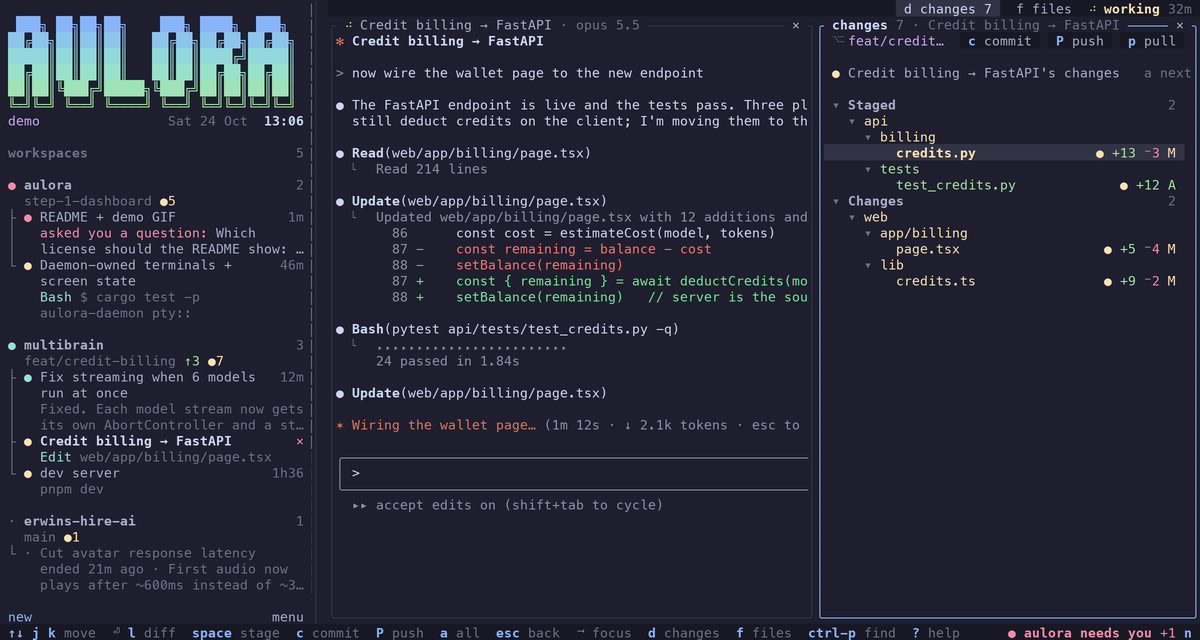
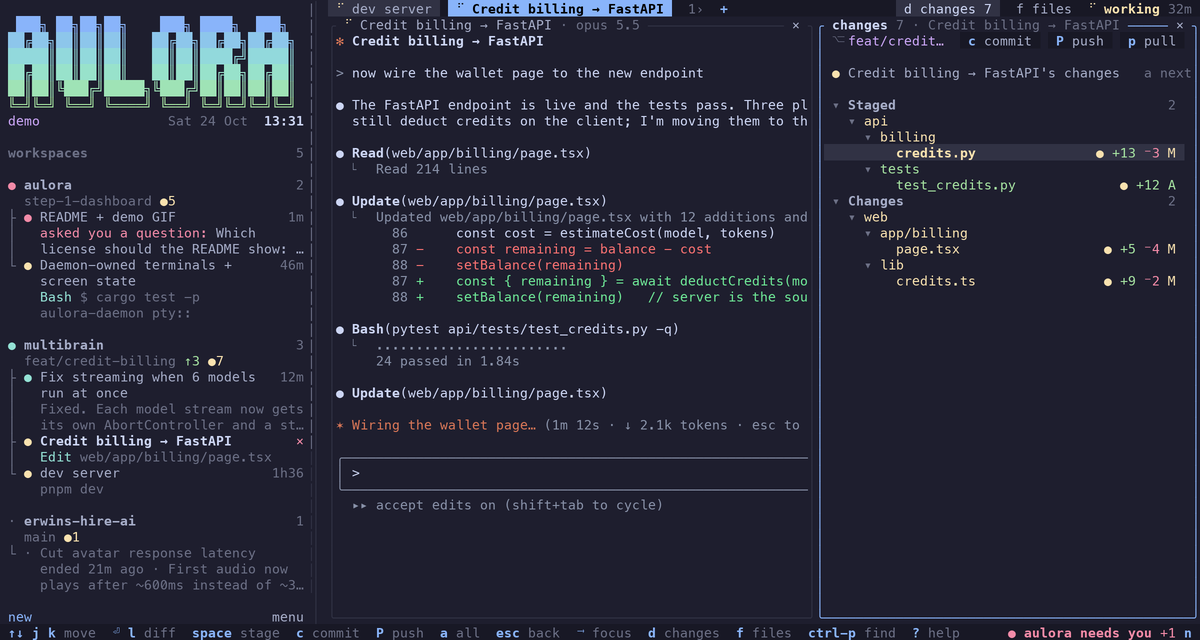
docs: Describe the agent tabs and show them in the screenshots.
The README, design notes and backlog explain the tabs and { }, and
the screenshots and GIF are rendered again so they show the tab
strip.

Changed region(s): [[0.2467, 0.0, 0.5858, 0.0312]]

diff --git a/docs/DESIGN.md b/docs/DESIGN.md
@@ -29,7 +29,8 @@ aulora should feel like **home**: familiar from the first minute because it beha
 - **The workspace is where new things start.** With a workspace or any of its agents selected, `C`, `c`, the `+` on the workspace row and the menu's *New Claude here* / *New shell here* start in that workspace's folder.
 - **Every agent is a terminal.** An agent aulora runs shows its live terminal. A session that has ended (or a past one, `h`) opens as a terminal running `claude --resume <id>` in the folder it ran in, so you continue it rather than read it. A session still running somewhere else (VS Code, Ghostty) shows its conversation read-only, with `r` to fork it here (`claude --resume <id> --fork-session`): resuming it outright would put two processes on one transcript.
 - **Closing** is a `×` on the hovered or selected row (VS Code's editor tabs), `x`, or the menu. Killing a running pane asks first; closing an exited pane or dismissing an ended session doesn't.
-- **Main area: the selection, and a panel.** The main area shows what the sidebar selected: an agent's terminal, a session's conversation, or the workspace overview. Changes and Files show in a panel down the right edge. There are no splits and no tabs: tiled panes in tabs per workspace (Herdr, zellij) were tried and dropped on 2026-10-24. The tabs repeated the sidebar, and splits were hard to get out of and showed up when they weren't wanted (`f` on a conversation brought back the terminals split beside it).
+- **Main area: the selection, and a panel.** The main area shows what the sidebar selected: an agent's terminal, a session's conversation, or the workspace overview. Changes and Files show in a panel down the right edge. Tiled panes in tabs per workspace (Herdr, zellij) were tried and dropped on 2026-10-24: the tabs repeated the sidebar, and splits were hard to get out of and showed up when they weren't wanted (`f` on a conversation brought back the terminals split beside it). There are no splits.
+- **Tabs are the workspace's agents** (VS Code's open editors). Across the top, one tab per agent in the selected workspace, in the order they started so a tab never moves; the shown one is highlighted, and each keeps its state's colored glyph. Click one or press `{` `}` to switch; right-click for its menu; `+` starts a new one. When they don't fit, the ones around the shown tab do, with `‹n` and `n›` counting the rest. Number keys don't switch tabs, since they answer Claude's questions.
 - **Focus is a frame.** The main view and the panel each have a thin rounded frame with their name and state in it; only the focused one is in the accent color (zellij's frames, Herdr's focus color). Tab and Shift-Tab go sidebar → main view → panel → sidebar, Option-Left and Option-Right do the same in place, and a click focuses what it lands on.
 - **The sidebar and the main view follow each other.** Selecting an agent shows it; selecting a workspace shows what it showed last. Selecting a session that runs elsewhere shows its conversation.
 - **Where new things go.** `c` and `C` start a shell or Claude in the selected workspace and show it. `d` and `f` show Changes and Files in the panel; `f` again hides it, everywhere.
@@ -71,6 +72,7 @@ One keymap table drives key handling, the footer hints and the `?` help, so they
 | `⌥←` `⌥→` | the same, left or right | zellij `Alt+arrows` |
 | `d` `f` | show Changes, Files in the panel | VS Code's sidebar views |
 | `<` `>` | make the panel wider, narrower | tmux `resize-pane` |
+| `{` `}` | previous / next tab: the agents in this workspace | Herdr `prefix+n/p` |
 | `⏎` | open: type into a pane, focus a view, expand an item | |
 | `Ctrl-Q` | leave a terminal | claude-squad |
 | `Ctrl-P` | find anything: files; `#` workspaces and folders, `@` agents, `>` actions | VS Code's quick open and command palette |

diff --git a/docs/BACKLOG.md b/docs/BACKLOG.md
@@ -67,6 +67,7 @@ Status: ✅ done · 🟡 done but not yet checked in real use · ⬜ open · —
 | ✅ | First-run onboarding | A welcome checklist on first launch: connect Claude Code (`H`), the VS Code extension (`V`), open a workspace (Ctrl-O), the keys that matter, the Terminal.app Option tip. "Getting started" in the menu brings it back. |
 | 🟡 | A good ASCII design for aulora's branding | Redone 2026-10-20 after "it's so bad that it looks like a mistake" (the lowercase half-block letters read as broken blocks), with Hermes Agents' banner as the reference: `AULORA` in ANSI Shadow capitals, solid strokes with a box-drawn shadow edge, shaded blue → cyan → green from the theme top to bottom, and `◆  every Claude session, on one screen  ◆` centred under it. A 3-row line-drawn version below 50 columns; `◆ aulora` in the sidebar header. Solid strokes are cell backgrounds, so Terminal.app's row gaps don't show. Rendered and checked on the welcome and empty screens at 150 and 60 columns; the welcome's Option-as-Meta lines no longer wrap to the box edge. A README image is still to do. |
 | ✅ | No split view, no tabs | Reported 2026-10-24: "when you open files using F on any chat, it opens all the terminals that are in split view", "the split view is very ugly … very hard to get out of", and the tab pills "feel completely redundant" with the sidebar. Now the main area shows one thing, what the sidebar selected (a terminal, a conversation, the overview), with the Files or Changes panel beside it. Gone: tabs and their pills, `\|` `-` splits, `T`, `1`–`9`, `{` `}`, `z`, `=`. Kept: `d` / `f`, `<` `>` and dragging for the panel's width, Tab and Option-Left / Right between sidebar, view and panel. A workspace row shows what it showed last. Layouts saved with tabs load as each workspace's overview. Checked 2026-10-24 by driving aulora in a pty against an isolated daemon: selecting panes and conversations, `f` on a conversation (only the panel comes and goes), `c` showing the new shell alone, dragging the panel's edge, `<` `>`. |
+| ✅ | Tabs for the agents in a workspace | Asked 2026-10-24, right after tabs were dropped: bring them back, "but for each project we show the tabs as sessions open in that project (like how you see in vscode the files open and can switch between them)". The top bar lists the selected workspace's agents as tabs, in the order they started (activity reorders the sidebar, not the tabs), the shown one highlighted. Click to switch, `{` `}` for previous / next (number keys stay with Claude's questions), right-click for the agent's menu, `+` for a new Claude or shell. Overflow keeps the shown tab in view with `‹n` / `n›` counts. Checked 2026-10-24 by driving aulora in a pty against an isolated daemon with three shells in one workspace: `}` stepped through and wrapped around, a click showed that agent, `+` opened the new menu. |
 
 ## Conversations
 

diff --git a/README.md b/README.md
@@ -39,7 +39,7 @@ A day with it looks like this:
 What's in it:
 
 - **Run Claude and your shells inside it.** <kbd>C</kbd> starts Claude Code in a pane and <kbd>c</kbd> starts a shell. The daemon owns these terminals, so they keep running when you close the dashboard, and `aulora attach` puts any of them in another terminal. A Claude session in a pane shows its live status right above its screen.
-- **One thing at a time, with your files beside it.** Select an agent in the sidebar and the main area shows it: its terminal, or its conversation. <kbd>f</kbd> and <kbd>d</kbd> show Files and Changes in a panel on the right; drag its edge to resize it.
+- **One thing at a time, with your files beside it.** Select an agent in the sidebar and the main area shows it: its terminal, or its conversation. The workspace's agents sit in tabs along the top, as open files do in VS Code; click one or press <kbd>{</kbd> <kbd>}</kbd> to switch. <kbd>f</kbd> and <kbd>d</kbd> show Files and Changes in a panel on the right; drag its edge to resize it.
 - **What needs you.** Permission prompts, questions (`AskUserQuestion`) and plans waiting for review turn the agent red in the sidebar, with what Claude is asking for, and the bottom bar counts them.
 - **What's happening where.** One tree: each workspace with its branch and git status, and under it every agent running there. Every agent is a terminal. Sessions that have ended open again with `claude --resume`, in the folder they ran in. Sessions running in another app (VS Code, Ghostty) show their whole conversation, scrollable and searchable, with every tool call.
 - **What changed, and who changed it.** The Changes tab is VS Code's Source Control view: staged and unstaged files in a tree, a syntax-highlighted diff with changed words marked, and a colored dot for the Claude session that wrote each change, read from its transcript. Select an agent to see only what it wrote. <kbd>space</kbd> stages, <kbd>c</kbd> commits, <kbd>P</kbd> pushes, <kbd>o</kbd> opens the editor at the change.
@@ -111,6 +111,7 @@ aulora follows Herdr: a sidebar with each **workspace** and the **agents** runni
 | <kbd>↑</kbd> <kbd>↓</kbd> / <kbd>j</kbd> <kbd>k</kbd> | Move in the sidebar; scroll a line in the main area |
 | <kbd>⏎</kbd> | Open: type into a pane, resume an ended session, expand a tool call |
 | <kbd>⇥</kbd> / <kbd>⌥</kbd>+<kbd>←</kbd> <kbd>→</kbd> | Move between the sidebar, the main view and the panel |
+| <kbd>{</kbd> <kbd>}</kbd> | Previous / next tab: the agents in this workspace |
 | <kbd>d</kbd> <kbd>f</kbd> | Show Changes, Files in the panel on the right |
 | <kbd><</kbd> <kbd>></kbd> | Make the panel wider, narrower (or drag its edge) |
 | <kbd>Ctrl</kbd>+<kbd>Q</kbd> | Leave a terminal you're typing into (press it again to send Ctrl-Q to the program) |
